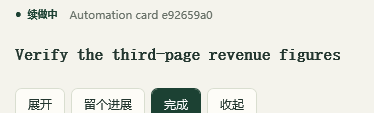
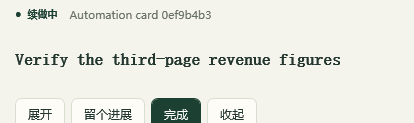
Finalize portable guidance and measured resident behavior

diff --git a/native/Relay.Desktop/MainWindow.cs b/native/Relay.Desktop/MainWindow.cs
@@ -94,7 +94,7 @@ public sealed class MainWindow : Window
     private void Render()
     {
         var focus=FocusedControlId();RenderNavigation();RenderList();RestoreControlFocus(focus);
-        _status.Text=_store.IsReadOnly?"只读恢复模式 · 先导出或选择新仓库":"已写入磁盘 · "+_store.DataPath;
+        _status.Text=_store.IsReadOnly?"只读恢复模式 · 先导出或选择新仓库":(_document.Revision==0?"本地仓库 · 保存第一张续页后写入 · ":"已写入磁盘 · ")+_store.DataPath;
     }
     private void RenderNavigation()
     {

diff --git a/docs/Relay-Known-Limits.md b/docs/Relay-Known-Limits.md
@@ -1,0 +1,19 @@
+# 已知限制，不用小字隐藏
+
+1. **只有 Windows x64。** Android 按用户要求暂缓，没有手机安装包或同步。
+2. **这是续做线索，不是系统现场快照。** 不恢复其他软件没保存的正文、选区、光标、窗口排列、登录状态。
+3. **数据是明文。** 本地并不意味着加密；不适合代替密码保险箱。
+4. **全局入口需要程序在运行。** 不默认自启，不安装服务；退出后快捷键和提醒就不工作。
+5. **系统整合受权限和 Windows Shell 决定。** 本次宿主的注册表和真实SendTo位置写入被拒绝。程序提供显式入口、失败提示和撤销，不能保证企业策略允许，也不会绕过保护。
+6. **未签名。** SmartScreen可能提示；哈希只核对文件一致性，不证明发布者身份。遵循组织策略，不建议关闭安全保护。
+7. **不访问网络路径或重定向资源。** 网络映射、UNC、符号链接/目录联接等被拒绝，以免看一张卡就发起外部认证或跟随意外目标。
+8. **文档默认应用仍有风险。** 程序/脚本仅定位；普通文档交给系统关联程序，用户仍应确保文件可信。
+9. **备份分两层。** 完整卡片JSON含卡片与设置，不含进行中的计时文件。完全退出后复制整个Data才保留完整本机状态。引用的原文件另行备份。
+10. **上一版不是无限历史。** 单个.bak可恢复最近有效状态，不承诺断电/磁盘损坏都能救回；未提交的草稿不能当作崩溃备份。
+11. **容量是有边界的。** 5000张卡、每卡100引用、标题200字符、下一步2000字符、上下文50000字符，主仓库最多32MiB；正文迁移超限会分片或拒绝，不悄悄截断。
+12. **可访问性尚非完整认证。** 焦点/中文名称/URL按键/静态对比度有测试；实际读屏、所有中文输入法、高对比度运行时切换、所有DPI与多屏未全面验证。
+13. **没有声称比成熟工具普遍更好。** 如果Task Coach、QOwnNotes、CherryTree或你的笔记模板已经把接续工作做得顺手，就不必多维护一个工具。
+14. **导出文件名有限制。** 为防别名覆盖数据，不能导出为vault.json、focus.json及其派生名、.relay.lock，或带~的短路径样式文件名。请选择新的普通文件名。
+15. **可信同用户环境。** 路径检查与锁防意外，不是对抗相同权限恶意程序路径交换的安全沙箱。
+
+详细证据见 [验证报告](<Relay-Verification.md>)，数据范围见 [隐私边界](<Relay-Privacy.md>)。

diff --git a/docs/Relay-Verification.md b/docs/Relay-Verification.md
@@ -13,12 +13,16 @@
 | 打开资源决策 | 47通过/3跳过/0失败 | 50场景与72扩展名变体；不启动关联应用，不是安全沙箱 |
 | 旧版迁移 | 18/18 | 20MiB、Unicode、完整校验、长正文无损分片 |
 | 原生进程耐久 | 30/30 | 确认保存后强制终止再启动；不等价于断电或OS重启 |
-| 原生 UIA | 18/18 通过 | 真实CtrlEnter与CtrlAltSpace通过；创建/编辑/恢复条/进展/资源/专注/冷暖捕捉/帮助 |
+| 原生 UIA | 19/19 通过 | 最后16:02复测；真实快捷键、续做条更新/完成不拉起管理页、所有原生流程 |
+| 原生模态草稿 | 6/6 通过 | 取消退出保留草稿、回调失败保留、陈旧编辑冲突、模态全局继续不改数据 |
+| 可访问性定向 | 最后10/10通过 | 真实WPF焦点/中文Name/URL取消Enter；一次未定位间歇搜索焦点失败保留，HC运行时未测 |
+| 便携实际流程 | 7/7 通过（15:34包） | 无参数便携保存、重启、Unicode仓库、SendTo参数、非法CLI，自包含CoreCLR |
+| 发布完整性 | 通过（待最后重打包） | 文件SHA256、PE x64、精确运行时许可、限制PATH/DOTNET_ROOT启动、Data不覆盖 |
 | 84分钟耐久 | 父会话托管运行中，尚未宣称通过 | 15:37:39开始，预计17:01:40结束；最初子任务的105分钟尝试在19.6秒后中断，未算通过 |
 
 ## 环境限制与证据
 
-- 热键注册、占用、回滚、WM_HOTKEY窗口分发已验证。合成SendInput早期被拒绝或不投递；最终15:33复测18/18通过，实际CtrlEnter与CtrlAltSpace均成功。历史失败与独立对照记录保留，不代表所有桌面环境都可靠。
+- 热键注册、占用、回滚、WM_HOTKEY窗口分发已验证。合成SendInput早期被拒绝或不投递；最终16:02复测19/19通过，实际CtrlEnter与CtrlAltSpace均成功。历史失败与独立对照记录保留，不代表所有桌面环境都可靠。
 - HKCU Explorer菜单和真实SendTo写入受宿主权限拒绝；工作区临时COM快捷方式创建/读取/更新/撤销通过。未提权或修改安全策略。入口是显式可选功能，不声称已安装。
 - 早期PrintWindow图片客户区空白，不能当视觉证据。后续明确诊断参数通过本应用WPF RenderTargetBitmap输出真实视觉树，不读取其他应用或桌面。每张记录来源和像素统计；模型不支持图像输入，不能声称人工逐像素审图。
 - 部分符号链接权限不可用；实际目录联接和硬链接测试已运行。没有连接网络共享。

diff --git a/docs/Relay-Decision.md b/docs/Relay-Decision.md
@@ -1,0 +1,35 @@
+# 为什么没有继续扩建旧版留白
+
+## 决策
+
+从通用网页工作台转向原生Windows“续做卡”，不是因为原来的技术做不出来，而是因为功能重合后，继续增加笔记、任务、图谱并不能回答“为什么留下”。
+
+## 看过的证据
+
+- [Task Coach](https://sourceforge.net/projects/taskcoach/) 已有层级任务、笔记、提醒、时间跟踪。
+- [QOwnNotes官方概览](https://www.qownnotes.org/getting-started/overview.html) 已有本地Markdown、Windows、脚本与浮动界面。
+- [CherryTree](https://www.giuspen.net/cherrytree/) 已有文件/目录/网页引用和本地存储。
+- [Ditto](https://sourceforge.net/projects/ditto-cp/) 已有持久剪贴板与全局入口。
+
+这些页面实际获取过；GitHub/Gitee的直接仓库访问仍受工具限制，没有把官方介绍冒充完整仓库或许可证审计。没有复用这些项目代码，避免为一个窄流程搬进大型宿主和未知组件许可。
+
+## 续页试图省掉哪一步
+
+不是省掉保存或确认，而是省掉“我现在还得打开一个管理页、找到该写在哪、再回到刚才的工作”。
+
+捕捉只要求一句下一步；标题可空。全局捕捉不显示主窗。保存落盘后可离开。回来按需选择资源，续做条留在工作旁；进展/完成不拉回主窗。用户始终控制资源是否打开。
+
+## 为什么是独立Windows程序
+
+- 不要求用户常开浏览器或安装另一套笔记宿主。
+- 使用Windows真实热键、托盘、任务栏与可撤销Shell入口。
+- 同一份数据在可見的磁盘目录，便于复制、备份和离开。
+- 不把现有知识库搬来，不强迫标签分类和日常打卡。
+
+## 没有交付的神话
+
+不是全球首次，不保证比已配置好的旧工具更快，不恢复未保存窗口现场，不证明用户会长期留存。两小时产出的代码量也不是价值证据。
+
+这版可留下来试的具体理由：**它已经能在真实Windows中完成那条窄流程，并经过磁盘故障、崩溃重启、原生交互、资源安全、打包和持续验证。** 至于是否减少你自己的中断恢复成本，需要在真实工作中用几次判断。
+
+若只是多维护一份清单，就导出、卸载，继续用原工具。让退出也简单，是这个辅助工具的一部分。

diff --git a/docs/Relay-Idle-Footprint.md b/docs/Relay-Idle-Footprint.md
@@ -1,0 +1,22 @@
+# 原生常驻空闲资源实测
+
+## 方法
+
+2026-09-30 16:06–16:18，在当前Windows主机启动当时发布的自包含Relay，使用独立空仓库，启动后等待5秒，将其自己的主窗口最小化。之后720.008秒内每60秒采样一次，共基线+12个间隔。无卡片、无提醒、无专注、无诊断截图；后台同时有另一个数据耐久测试，属于共享主机测量。
+
+[测量脚本](<../scripts/Test-IdleFootprint.ps1>) · [原始报告](<../artifacts/idle-test/4a218e5be60f4b60b260f1182d94fbca/report.json>) · [采样序列](<../artifacts/idle-test/4a218e5be60f4b60b260f1182d94fbca/series.json>)
+
+## 结果
+
+- 12分钟累计CPU时间 **3.703秒**。
+- 相对单核心平均 **0.514%**；按本机8逻辑处理器归一化 **0.0643%**。
+- 首分钟占3.578秒；后续11分钟总共约0.125秒。早期初始化与稳定空闲不应混为一谈，未做采样栈归因。
+- 最后私有内存 **69,623,808字节，约66.4MiB**；基线54,358,016字节。
+- 最后工作集 **259,268,608字节，约247.3MiB**；峰值与共享映射/操作系统调度相关，不能用私有内存替代这个实际工作集数值。
+- 句柄568→580，末期稳定；线程21→11。
+- 前后模块名称中未观察到WebView/Electron；这与纯WPF构建一致，但仅模块名称不构成系统级网络/子进程证明。
+- 空仓库最终只有预期的锁文件，没有捕捉内容或活动记录。测试拥有的进程已结束，清理无错误。
+
+## 不能推导什么
+
+不是续航测试，不代表所有电脑都如此，不证明多年运行无泄漏，也不是“零CPU”“极低内存”的营销数字。这个工具有真实WPF/.NET常驻成本，是否值得常驻应以你的设备体验决定。

diff --git a/README.md b/README.md
@@ -10,7 +10,7 @@
 
 便携包里的标记启用 **Data 随程序目录保存**；更新程序时保留 Data。没有便携标记时默认保存到当前用户本地应用数据目录。不是浏览器缓存。
 
-> 发布与两小时耐久验证仍在进行，最终结果见 [原生验证报告](<docs/Relay-Verification.md>)。
+发布包与原始测试证据分别记录构建哈希；实际完成结果和未验证项见 [原生验证报告](<docs/Relay-Verification.md>)。
 
 ## 为什么还要留一个新工具
 
@@ -24,6 +24,10 @@
 4. 做完一小步，用同一个窗口记录进展、改好下一步；没有打卡、积分和催促。
 
 如果你原来的工具已让这个流程同样顺手，就不需要多维护一份。没有未经测量的效率优势承诺。完整取舍见 [开源对照与定位](<docs/research/windows-positioning.md>)。
+
+![真实原生捕捉窗口](<docs/native-preview/capture.png>)
+
+[工作台](<docs/native-preview/workspace.png>) · [工作旁的续做条](<docs/native-preview/strip.png>) · [图像来源说明](<docs/native-preview/README.md>)
 
 ## 做好的基础
 
@@ -47,6 +51,8 @@
 
 - [中文快速指南](<docs/Relay-Windows-Guide.md>)
 - [原生验证报告](<docs/Relay-Verification.md>)
+- [数据与隐私边界](<docs/Relay-Privacy.md>) · [已知限制](<docs/Relay-Known-Limits.md>)
+- [性能修复实测](<docs/Relay-Performance.md>) · [两小时工作记录](<docs/Relay-Worklog.md>)
 - [发布检查清单](<docs/RELEASE-CHECKLIST.md>)
 - [纯原生源码](<native/Relay.Desktop/Relay.Desktop.csproj>)
 - [磁盘核心](<native/Relay.Core/VaultStore.cs>)

diff --git a/docs/research/delivered-value-review.md b/docs/research/delivered-value-review.md
@@ -43,3 +43,7 @@
 **续页是 Windows 上的手动中断接续工具：离开前用快捷键留下一步和资源引用，回来按需打开资源，把下一步放在工作旁；它不自动恢复应用现场，也不要求你再经营一个笔记库。**
 
 先在相近的真实中断里，与自己已经配置顺手的旧办法比较：保存线索的负担、回来找到下一步／资源的步骤、是否真开始下一步。若依然必须管理第二份清单，或优势只剩外观，**NO-GO：用原工具，停止扩功能**。即使修好小窗断点，也只能说值得继续验证，不能说已证明两小时后的留存。
+
+## 后续实测修复（父代理记录）
+
+16:02最终原生19/19场景通过：续做条内记录进展、更新下一步、完成卡片均保持主窗口最小化，使用实际IsIconic与UIA WindowVisualState验证；条上新增“资源”显式选择入口，仍默认不选、不自动打开。标题已标可选，主窗资源标签改为“选择并打开资源”。这些修复处理了第1项的strip回路与第2项入口依赖，但全局ResumeLatest仍先显示管理页，进展说明仍必填；不将实测功能扩大成用户价值或竞品效率证明。

diff --git a/docs/native-preview/README.md b/docs/native-preview/README.md
@@ -1,0 +1,12 @@
+# Native image evidence
+
+These images come from the running native WPF application, not mockups. The files are copied from the successful 19-scenario UIAutomation run at 2026-09-30 16:02 local time.
+
+- [workspace.png](<workspace.png>): initial empty application.
+- [capture.png](<capture.png>): real capture form using synthetic test data.
+- [strip.png](<strip.png>): real continuation strip.
+- [progress.png](<progress.png>): progress dialog opened from the strip while dashboard remained minimized.
+
+Method: opt-in app-owned RenderTargetBitmap of each window's actual content visual tree, composited with the actual window background. It excludes OS title chrome and does not capture other apps. Related raw run also contains independently nonblank PrintWindow captures and UIAutomation rectangles.
+
+[Raw run report](<../../artifacts/native-tests/20260930-080200-ffa83880/report.json>) records 32 nonblank captures and the verification method. Pixel statistics establish nonblank output, not human aesthetic review. The session model cannot inspect image inputs; no manual pixel-level review is claimed.
